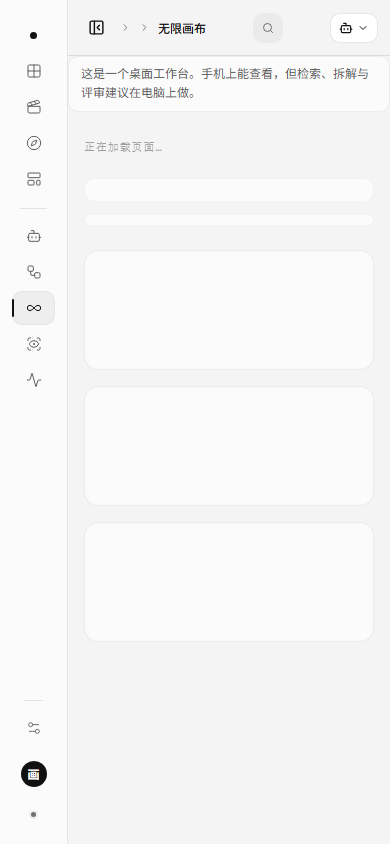
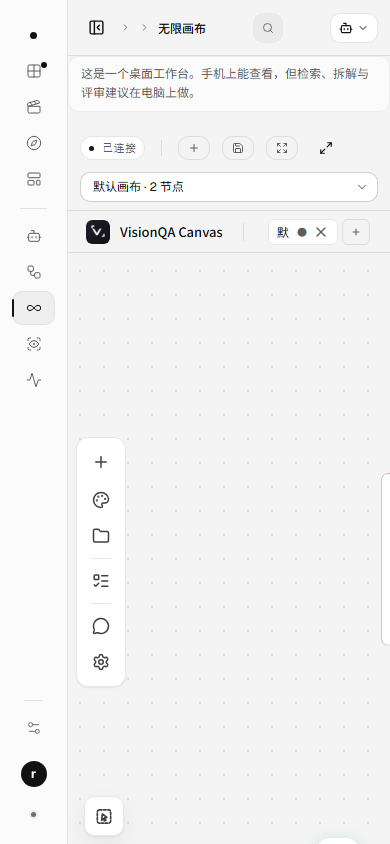
fix(board): 390 窄屏状态条改成两行，重新拍生产截图（r173split2）

diff --git a/src/pages/BoardPage.tsx b/src/pages/BoardPage.tsx
@@ -338,6 +338,7 @@ export default function BoardPage({ onToast, boardId, focus, onToggleFocus }: Bo
           <span className="bd-picker-label">画布</span>
           <Select
             size="sm"
+            className="bd-select"
             label="选择画布"
             value={canvasId}
             options={[
@@ -348,7 +349,7 @@ export default function BoardPage({ onToast, boardId, focus, onToggleFocus }: Bo
           />
         </div>
         <button className="bd-action" type="button" onClick={() => { void createCanvas() }} title="新建一块画布并绑定到工作台">
-          <Plus size={12} />新建
+          <Plus size={12} /><span className="bd-action-text">新建</span>
         </button>
         <button
           className="bd-action"
@@ -357,7 +358,7 @@ export default function BoardPage({ onToast, boardId, focus, onToggleFocus }: Bo
           aria-expanded={noteOpen}
           title="把评审结论作为文本节点写进画布"
         >
-          <Save size={12} />写笔记
+          <Save size={12} /><span className="bd-action-text">写笔记</span>
         </button>
         {noteOpen ? (
           <div className="bd-note" role="dialog" aria-label="写进画布">
@@ -395,7 +396,7 @@ export default function BoardPage({ onToast, boardId, focus, onToggleFocus }: Bo
             aria-pressed={Boolean(focus)}
           >
             {focus ? <Minimize2 size={12} /> : <Expand size={12} />}
-            {focus ? '退出专注' : '专注'}
+            <span className="bd-action-text">{focus ? '退出专注' : '专注'}</span>
           </button>
         ) : null}
         <a

diff --git a/src/styles/board.css b/src/styles/board.css
@@ -235,9 +235,38 @@
 }
 
 @media (max-width: 760px) {
-  /* 小屏状态条先留住排队位：署名在面包屑里已经说了，地址在「新窗口」里也看得到 */
+  /* 390 宽放不下一条：署名、地址、画布标签让位（面包屑里已经说了在哪一页），
+     按钮收成图标（title 与 aria-label 还在），选择器单独占第二行——状态条自然变两行。 */
+  .bd-strip {
+    flex-wrap: wrap;
+    height: auto;
+    padding: var(--space-2) var(--space-3);
+    row-gap: var(--space-2);
+  }
   .bd-label,
-  .bd-url { display: none; }
+  .bd-url,
+  .bd-picker-label,
+  .bd-spacer { display: none; }
+  .bd-picker {
+    flex: 1 1 100%;
+    order: 3;
+    min-width: 0;
+  }
+  .bd-select {
+    flex: 1 1 auto;
+    min-width: 0;
+  }
+  .bd-select .vq-select__trigger {
+    width: 100%;
+    min-width: 0;
+  }
+  .bd-strip > .bd-action {
+    width: 32px;
+    padding: 0;
+    justify-content: center;
+  }
+  .bd-action-text { display: none; }
   .bd-queue { max-width: 200px; }
-  .bd-note { left: var(--space-3); width: min(340px, calc(100vw - 48px)); }
+  /* 两行状态下写笔记不再从 40px 处弹（会压住第二行的选择器），改为贴在整条状态条下方 */
+  .bd-note { top: calc(100% + var(--space-2)); left: var(--space-3); width: min(340px, calc(100vw - 48px)); }
 }
